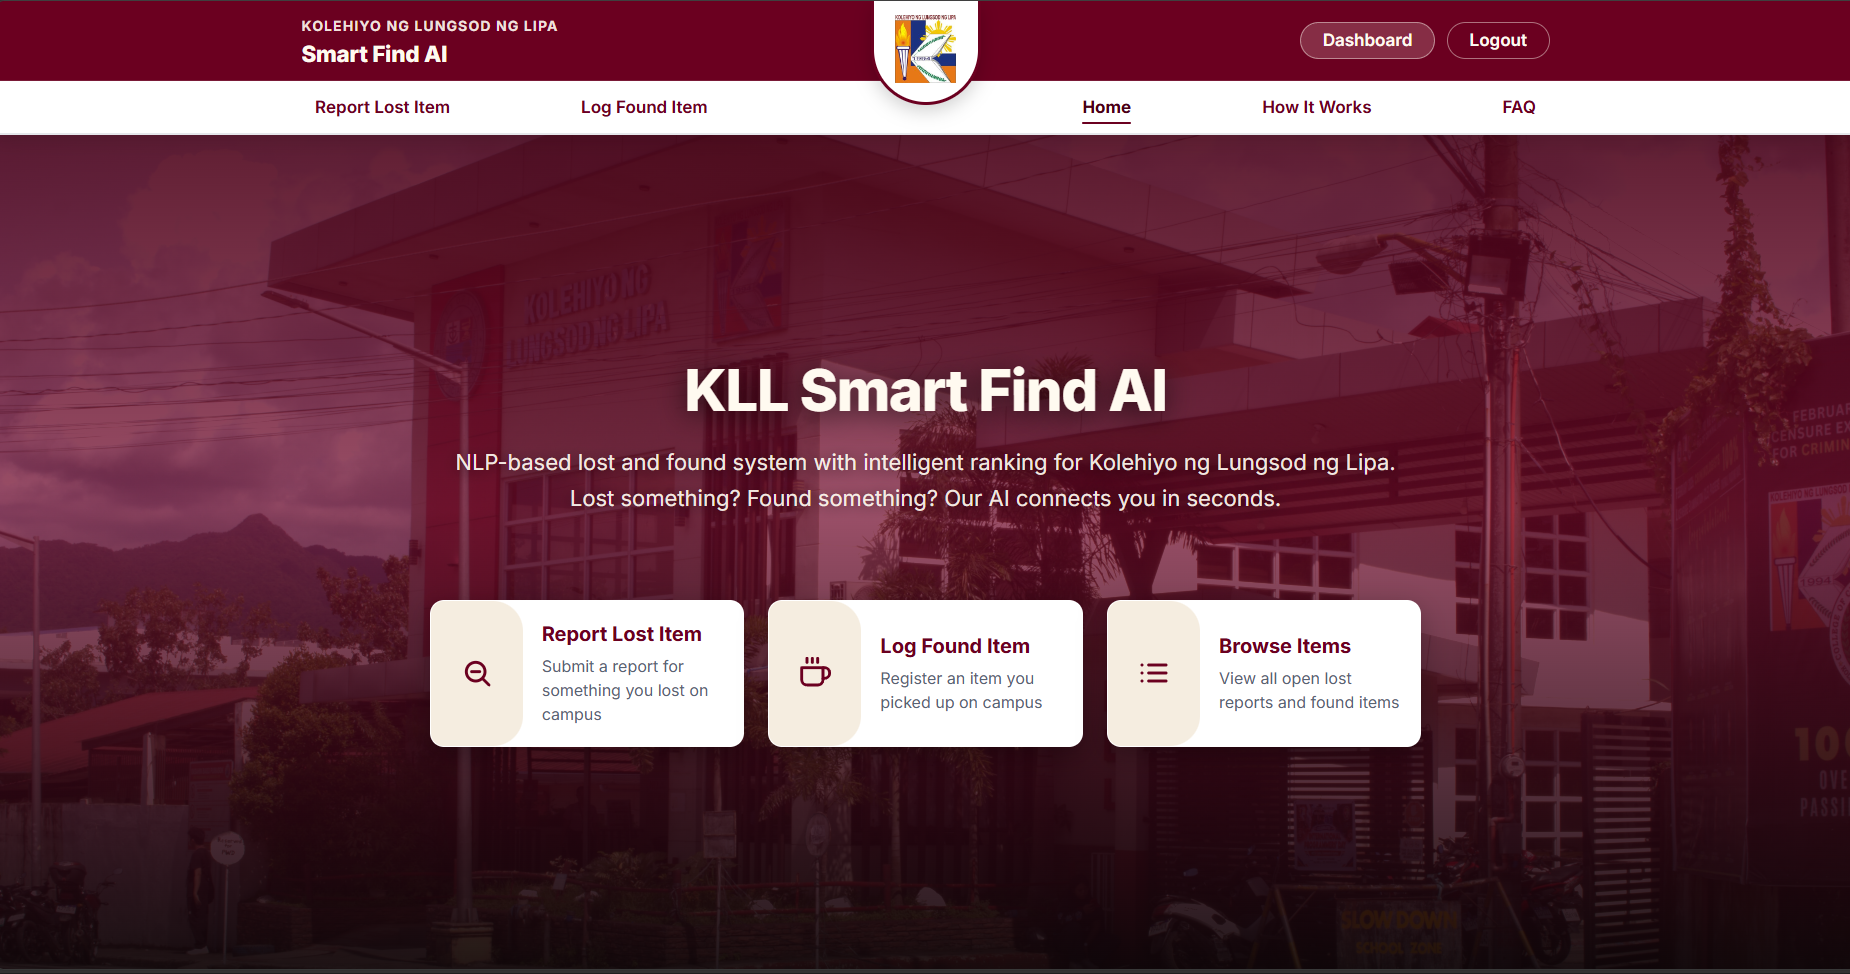
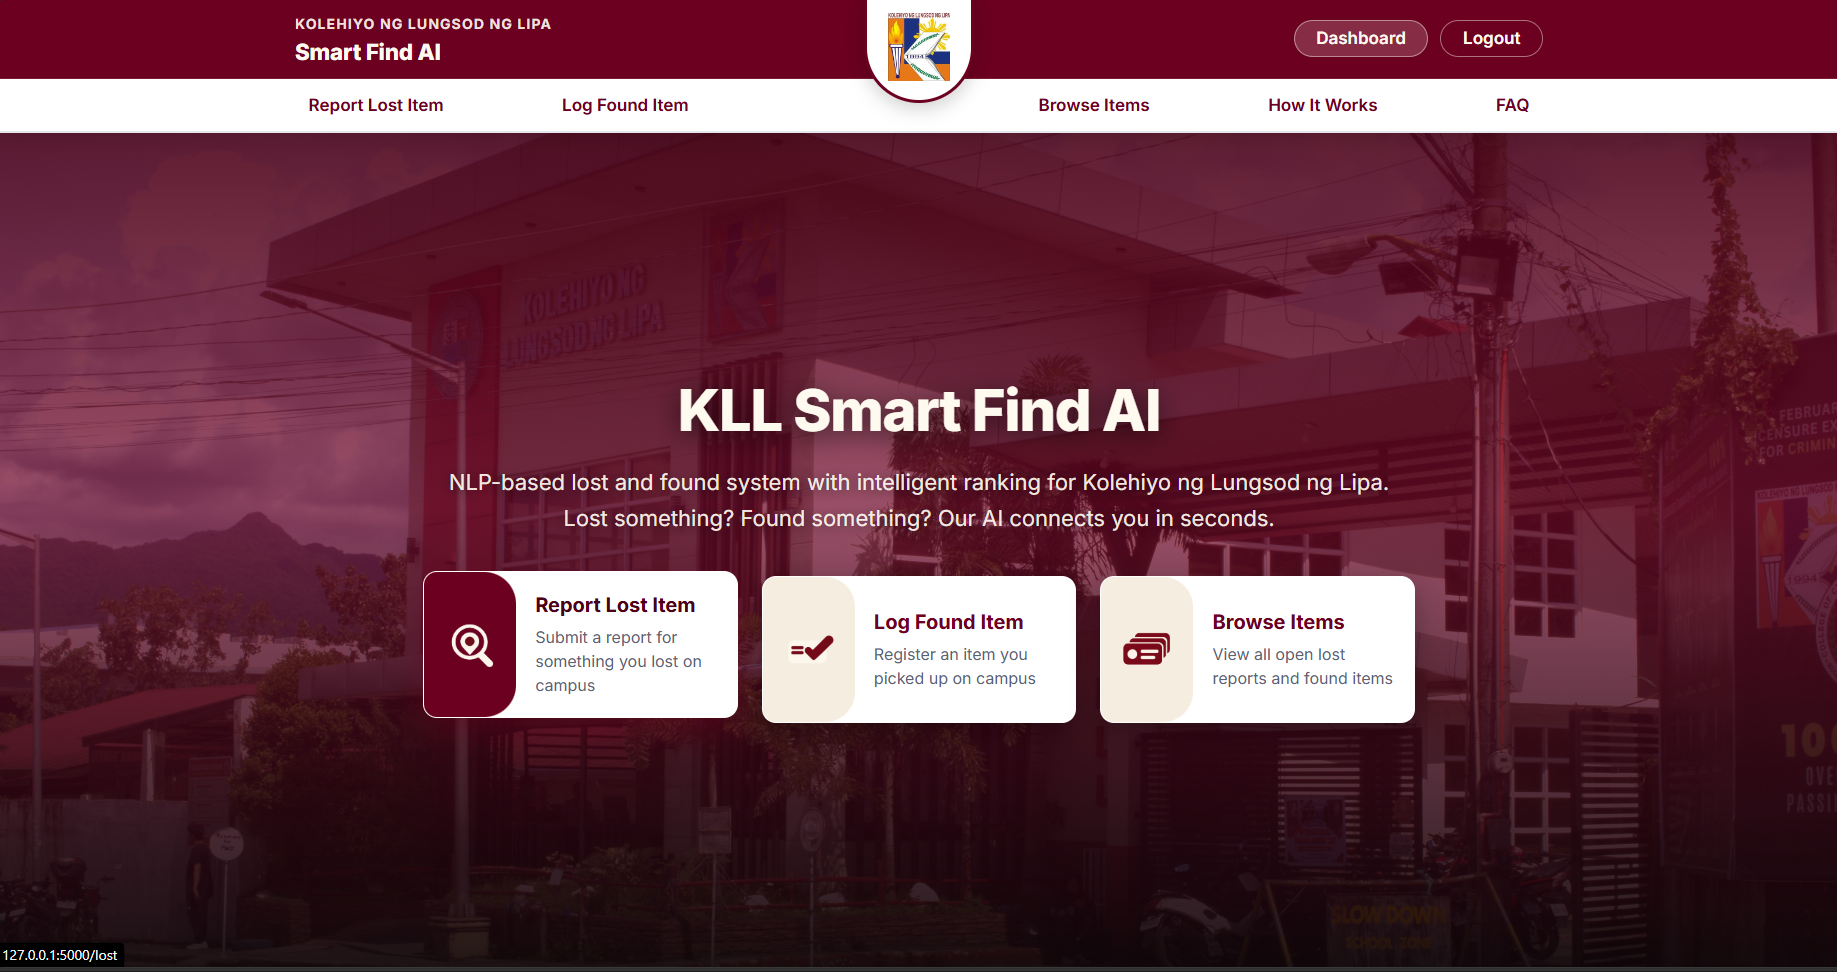
update

diff --git a/templates/index.html b/templates/index.html
@@ -39,20 +39,19 @@
       <!-- Card 1: Report Lost -->
       <a href="{{ url_for('report_lost') }}" class="hero-card">
         <div class="hero-card-left">
-          <!-- Placeholder icon: magnifying glass / lost -->
-          <svg
-            class="hero-card-icon"
-            viewBox="0 0 24 24"
-            fill="none"
-            stroke="currentColor"
-            stroke-width="2.2"
-            stroke-linecap="round"
-            stroke-linejoin="round"
-          >
-            <circle cx="11" cy="11" r="7" />
-            <line x1="21" y1="21" x2="16.65" y2="16.65" />
-            <line x1="8" y1="11" x2="14" y2="11" />
-          </svg>
+          <div class="hero-card-icon-wrap">
+            <img
+              src="{{ url_for('static', filename='images/icons/lost.png') }}"
+              alt="Report Lost Item"
+              class="hero-card-img hero-card-img--default"
+            />
+            <img
+              src="{{ url_for('static', filename='images/icons/lost-r.png') }}"
+              alt=""
+              class="hero-card-img hero-card-img--hover"
+              aria-hidden="true"
+            />
+          </div>
         </div>
         <div class="hero-card-right">
           <span class="hero-card-title">Report Lost Item</span>
@@ -65,22 +64,19 @@
       <!-- Card 2: Log Found -->
       <a href="{{ url_for('log_found') }}" class="hero-card">
         <div class="hero-card-left">
-          <!-- Placeholder icon: hand holding / found -->
-          <svg
-            class="hero-card-icon"
-            viewBox="0 0 24 24"
-            fill="none"
-            stroke="currentColor"
-            stroke-width="2.2"
-            stroke-linecap="round"
-            stroke-linejoin="round"
-          >
-            <path d="M18 8h1a4 4 0 0 1 0 8h-1" />
-            <path d="M2 8h16v9a4 4 0 0 1-4 4H6a4 4 0 0 1-4-4V8z" />
-            <line x1="6" y1="1" x2="6" y2="4" />
-            <line x1="10" y1="1" x2="10" y2="4" />
-            <line x1="14" y1="1" x2="14" y2="4" />
-          </svg>
+          <div class="hero-card-icon-wrap">
+            <img
+              src="{{ url_for('static', filename='images/icons/log.png') }}"
+              alt="Log Found Item"
+              class="hero-card-img hero-card-img--default"
+            />
+            <img
+              src="{{ url_for('static', filename='images/icons/log-r.png') }}"
+              alt=""
+              class="hero-card-img hero-card-img--hover"
+              aria-hidden="true"
+            />
+          </div>
         </div>
         <div class="hero-card-right">
           <span class="hero-card-title">Log Found Item</span>
@@ -93,23 +89,19 @@
       <!-- Card 3: Browse Items -->
       <a href="#items" class="hero-card">
         <div class="hero-card-left">
-          <!-- Placeholder icon: list / browse -->
-          <svg
-            class="hero-card-icon"
-            viewBox="0 0 24 24"
-            fill="none"
-            stroke="currentColor"
-            stroke-width="2.2"
-            stroke-linecap="round"
-            stroke-linejoin="round"
-          >
-            <line x1="8" y1="6" x2="21" y2="6" />
-            <line x1="8" y1="12" x2="21" y2="12" />
-            <line x1="8" y1="18" x2="21" y2="18" />
-            <line x1="3" y1="6" x2="3.01" y2="6" />
-            <line x1="3" y1="12" x2="3.01" y2="12" />
-            <line x1="3" y1="18" x2="3.01" y2="18" />
-          </svg>
+          <div class="hero-card-icon-wrap">
+            <img
+              src="{{ url_for('static', filename='images/icons/browse.png') }}"
+              alt="Browse Items"
+              class="hero-card-img hero-card-img--default"
+            />
+            <img
+              src="{{ url_for('static', filename='images/icons/browse-r.png') }}"
+              alt=""
+              class="hero-card-img hero-card-img--hover"
+              aria-hidden="true"
+            />
+          </div>
         </div>
         <div class="hero-card-right">
           <span class="hero-card-title">Browse Items</span>

diff --git a/static/style.css b/static/style.css
@@ -541,13 +541,37 @@ body.page-home {
   transform: scaleX(1);
 }
 
-.hero-card-icon {
-  width: 32px;
-  height: 32px;
-  color: var(--maroon);
+.hero-card-icon-wrap {
   position: relative;
   z-index: 2;
-  transition: color 0.3s ease-out;
+  width: 58px;
+  height: 58px;
+  flex-shrink: 0;
+}
+
+.hero-card-img {
+  position: absolute;
+  inset: 0;
+  width: 100%;
+  height: 100%;
+  object-fit: contain;
+  transition: opacity 0.3s ease-out;
+}
+
+.hero-card-img--default {
+  opacity: 1;
+}
+
+.hero-card-img--hover {
+  opacity: 0;
+}
+
+.hero-card:hover .hero-card-img--default {
+  opacity: 0;
+}
+
+.hero-card:hover .hero-card-img--hover {
+  opacity: 1;
 }
 
 .hero-card:hover .hero-card-icon {
@@ -2207,9 +2231,9 @@ main.page-main--dashboard {
     border-radius: 10px 26px 26px 10px;
   }
 
-  .hero-card-icon {
-    width: 24px;
-    height: 24px;
+  .hero-card-icon-wrap {
+    width: 42px;
+    height: 42px;
   }
 
   .hero-card-right {
